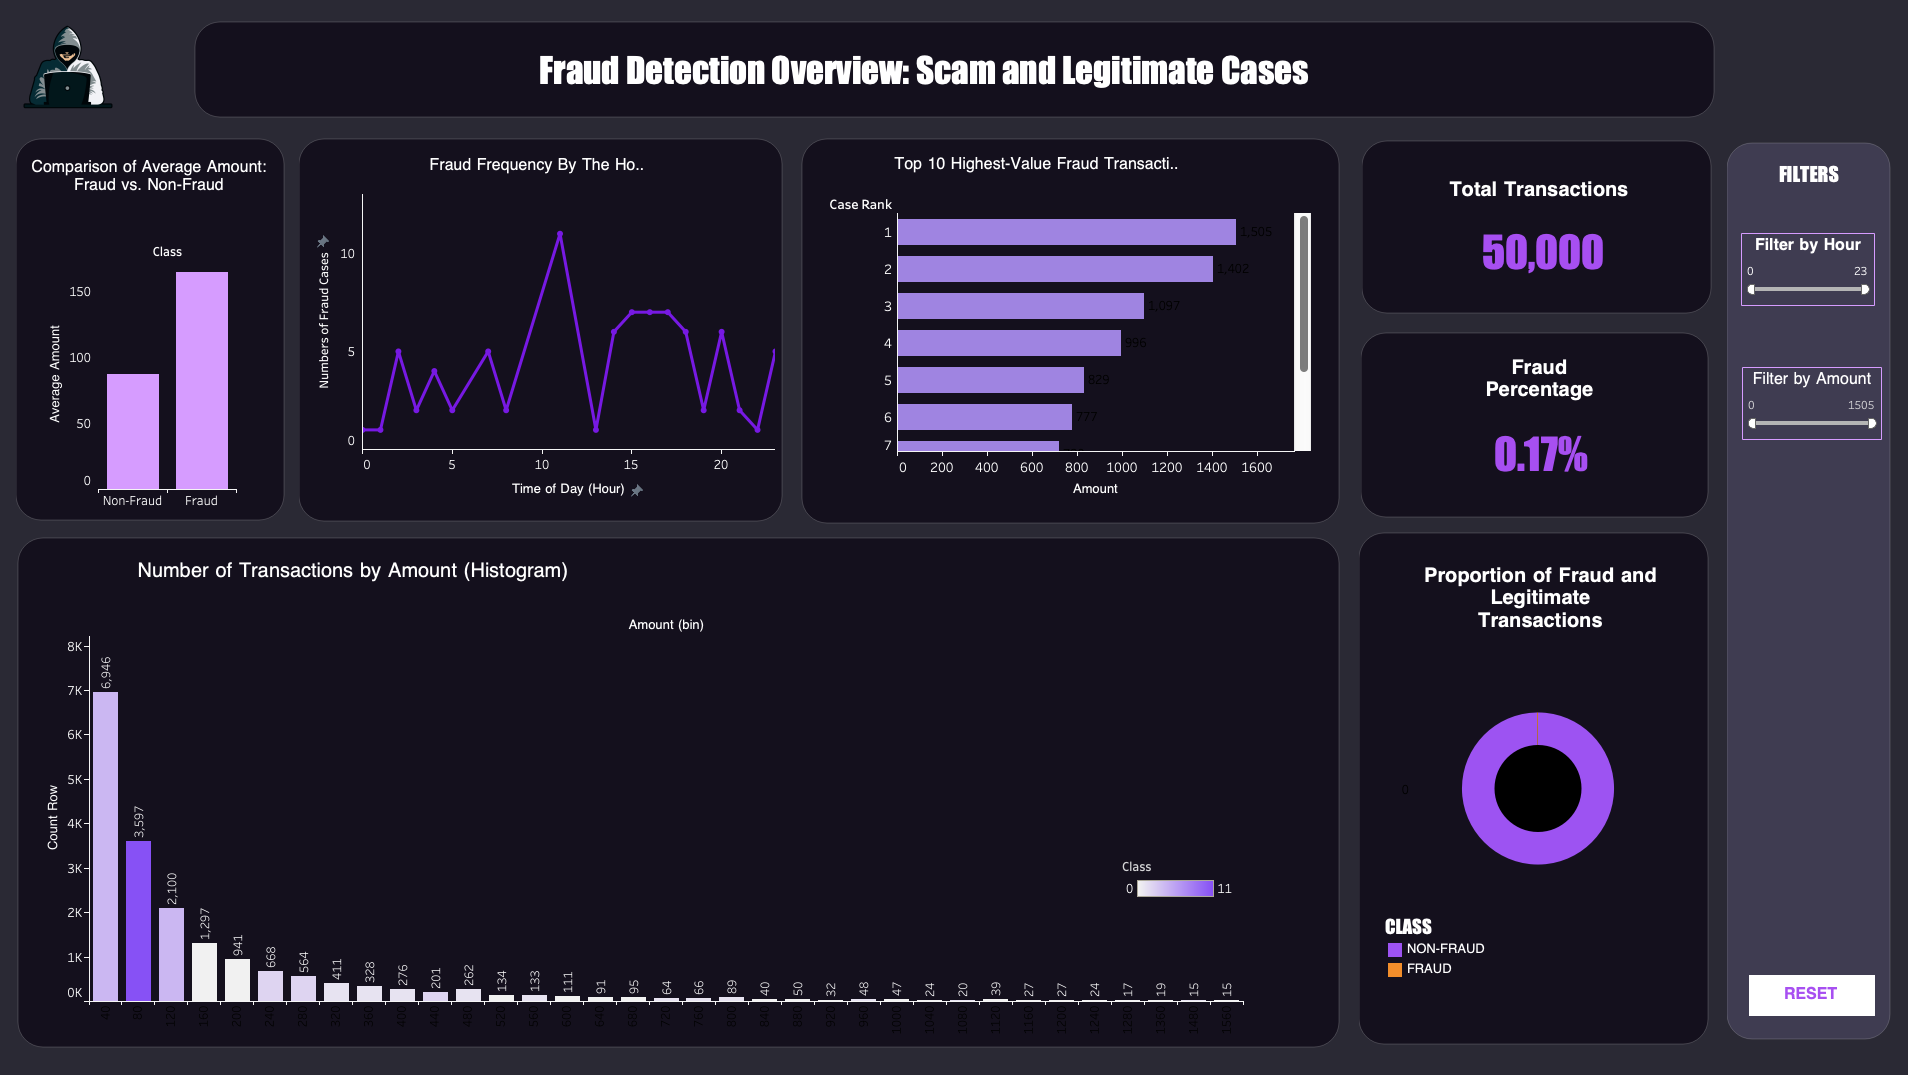
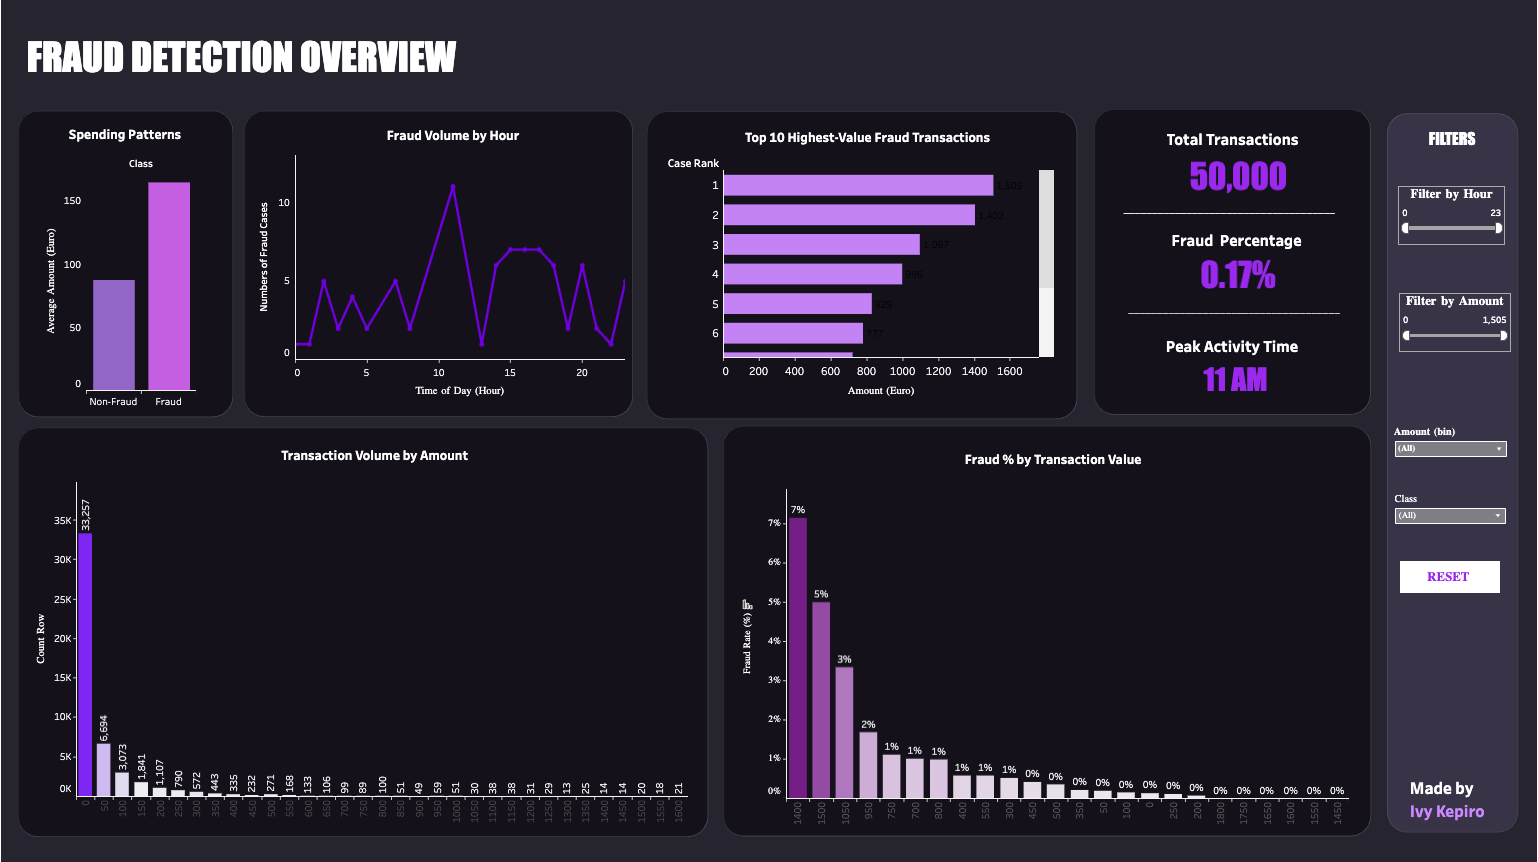
Update README with machine learning

diff --git a/README.md b/README.md
@@ -1,12 +1,30 @@
 # Credit Card Fraud Detection: Scam and Legitimate Cases
 
+![Image](Image/thumbnail.png)
+
+## Table of Contents
+- [Project Overview](#overview)
+- [Dataset](#dataset)
+- [Dashboard Preview](dashboard-preview)
+- [Methodology](#methodology)
+- [Exploratory Data Analysis](#exploratory-data-analysis)
+- [Machine Learning Approach](#machine-learning-approach)
+- [Visualisations](#visualisations)
+- [Findings](#findings)
+- [How to Use](#how-to-use)
+
 ## Overview
 
-The main goal of this project is to analyse transaction data to identify patterns and anomalies related to fraudulent activities. 
-It includes:
- - Data extraction and transformation using **SQL** 
- - Conducted detailed data exploration and preprocessing using Python in a Jupyter Notebook.
- - Created an insightful interactive Tableau dashboard to present key findings and support decision-making
+Credit card fraud is a significant challenge for financial institutions and consumers, leading to substantial financial losses and undermining trust in digital payment systems. Detecting fraudulent transactions quickly and accurately is essential for minimising risk and protecting users.
+
+This project explores the application of machine learning techniques to detect potentially fraudulent credit card transactions, using a real-world dataset of anonymised transaction records.
+The primary objectives include analysing transaction data to uncover patterns and anomalies associated with fraud. 
+
+Key components of the project:
+ - Extracted and transformed data using SQL
+ - Performed detailed data exploration and preprocessing with Python in a Jupyter Notebook
+ - Built and evaluated a predictive model to classify transactions as legitimate or fraudulent
+ - Developed an interactive Tableau dashboard to present key insights and support data-driven decision-making
 
 ## Dataset
 
@@ -24,7 +42,7 @@ It includes:
     - `top_fraud_days.csv`: High-fraud days with amounts.
 
 ## Dashboard Preview
-![Dashboard](Image/dashboard.png)
+![Dashboard](Imgage/dashboard.png)
 
 *Dashboard is a work in progress and may be updated.*
 <br>
@@ -32,22 +50,42 @@ Link to view: [HERE](https://public.tableau.com/app/profile/ivy.kepiro/viz/Fraud
 
 
 ## Methodology
-- **Data Cleaning**: Removed duplicates and handled missing values in `creditcard_subset.csv`
-- **Exploratory Analysis**: Calculated fraud percentage (~0.17%) and aggregated data by hour and amount
-- **Segmentation**: Categorised transactions into fraud and legitimate classes using Class.
+
+Dat Cleaning
+ * Removed duplicates and handled missing values in creditcard_subset.csv.
+
+Exploratory Data Analysis
+ * Calculated fraud percentage (~0.17%) and aggregated data by hour and amount.
+ * Analysed fraud prevalence: ~85 out of 50,000 transactions are fraudulent, consistent with the original Kaggle dataset.
+ * Examined amount distribution: Fraudulent transactions average €164.23, while legitimate ones average €87.25, indicating higher-value frauds.
+ * Explored time patterns: Fraud peaks vary by hour, with potential clustering visualised in the dashboard.
+ * Identified high-value transactions: High-spending users (e.g., >€500) contribute disproportionately to fraud, suggesting a need for targeted monitoring.
+
+Machine Learning Approach
+ * Model: Random Forest Classifier trained to predict fraud based on transaction features.
+ * Evaluation: Used precision, recall, F1-score, and confusion matrix to assess model performance.
+ * Threshold Tuning: Explored the trade-off between precision and recall by adjusting the decision threshold, with a focus on maximizing precision to minimize false alarms.
 
 Visualisation Created:
 - "Histogram of transaction amounts", 
 - "Line charts for hourly fraud frequency",
+- "Precision-Recall vs. Threshold Plot: Demonstrates the trade-off between catching more frauds and reducing false positives."
 - "Interactive Tableau dashboard with filters (Hour, Amount) and KPIs (Fraud Percentage, Total Fraud Cases)"
 
 ## Findings
-- **Fraud Prevalence**: Approximately 0.17% of transactions are fraudulent (~85 out of 50,000), consistent with the Kaggle dataset.
+- **Fraud Prevalence**: Approximately 0.17% of transactions are fraudulent (~85 out of 50,000), consistent with the Kaggle dataset (The dataset is highly imbalanced).
 - **Amount Distribution**: Fraud transactions average €164.23, while legitimate ones average €87.25, indicating higher-value frauds.
 - **Time Patterns**: Fraud peaks vary by hour, with potential clustering (visualised in the dashboard).
 - **Insight**: High-spending users (e.g., >€500) contribute to a disproportionate share of fraud cases, suggesting that high-value transactions may require targeted monitoring.
+- Precision-Recall Trade-off: By increasing the decision threshold, the model achieves high precision (fewer false alarms) at the cost of lower recall (missing some frauds). This approach is suitable for minimizing customer disruption in production environments.
 
 <br>
+
+## How to Use
+1. Clone the repository.
+2. Install required Python packages (see requirements.txt).
+3. Run the Jupyter notebook in Notebook/machine_learning.ipynb to reproduce the analysis and model.
+4. Use the exported creditcard_with_predictions.csv for further visualisation in Tableau or other BI tools.
 
 Thank you for reviewing my work! 🙂  
 Feel free to explore and reach out.
